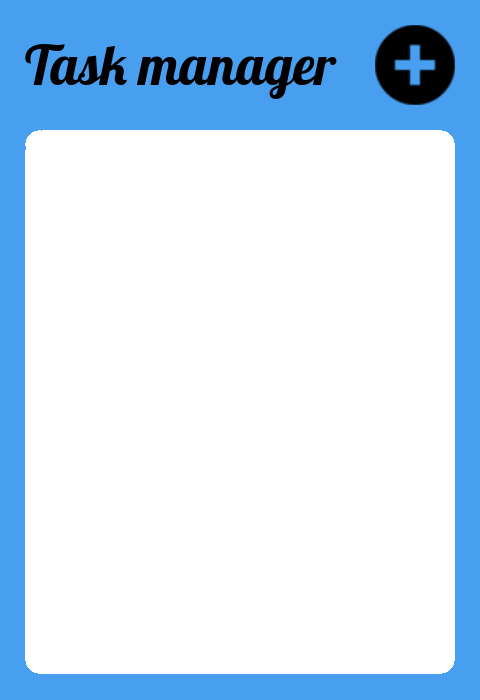
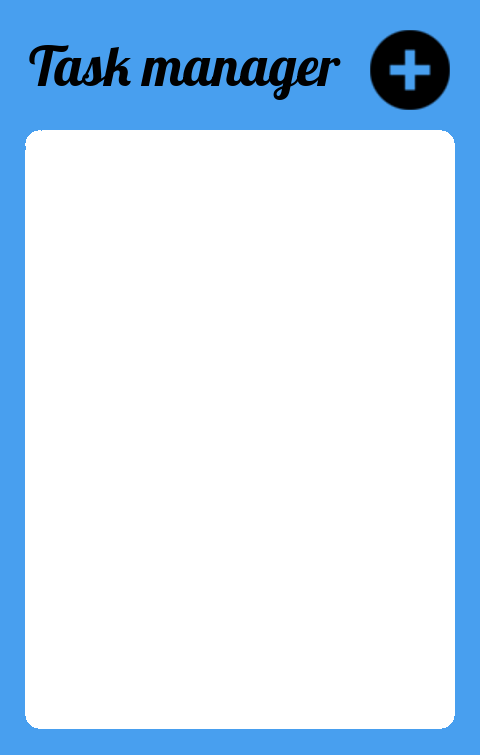
Resize orginal grapfic for menu bacground

Changed region(s): [[0.0312, 0.03, 0.9688, 0.21]]

diff --git a/core/src/com/aspoka1/app/office/taskmanager/screens/MenuScreen.java b/core/src/com/aspoka1/app/office/taskmanager/screens/MenuScreen.java
@@ -29,10 +29,10 @@ public class MenuScreen implements Screen, InputProcessor {
 
 		background = new Sprite(new Texture("Menu.png"));
 		
-		taskTile1 = new TaskTile(25, 420);
-		taskTile2 = new TaskTile(25, 270);
-		taskTile3 = new TaskTile(25, 120);
-		taskTile4 = new TaskTile(25, -30);
+		taskTile1 = new TaskTile(25, 475);
+		taskTile2 = new TaskTile(25, 325);
+		taskTile3 = new TaskTile(25, 175);
+		taskTile4 = new TaskTile(25, 25);
 	}
 
 	@Override

diff --git a/core/src/com/aspoka1/app/office/taskmanager/TaskManager.java b/core/src/com/aspoka1/app/office/taskmanager/TaskManager.java
@@ -8,7 +8,7 @@ import com.badlogic.gdx.graphics.glutils.ShapeRenderer;
 
 public class TaskManager extends Game {
 	public static final int WIDTH = 480;
-	public static final int HEIGHT = 700;
+	public static final int HEIGHT = 755;
 	public static final String TITLE = "TaskManager";
 	
 	public SpriteBatch batch;
